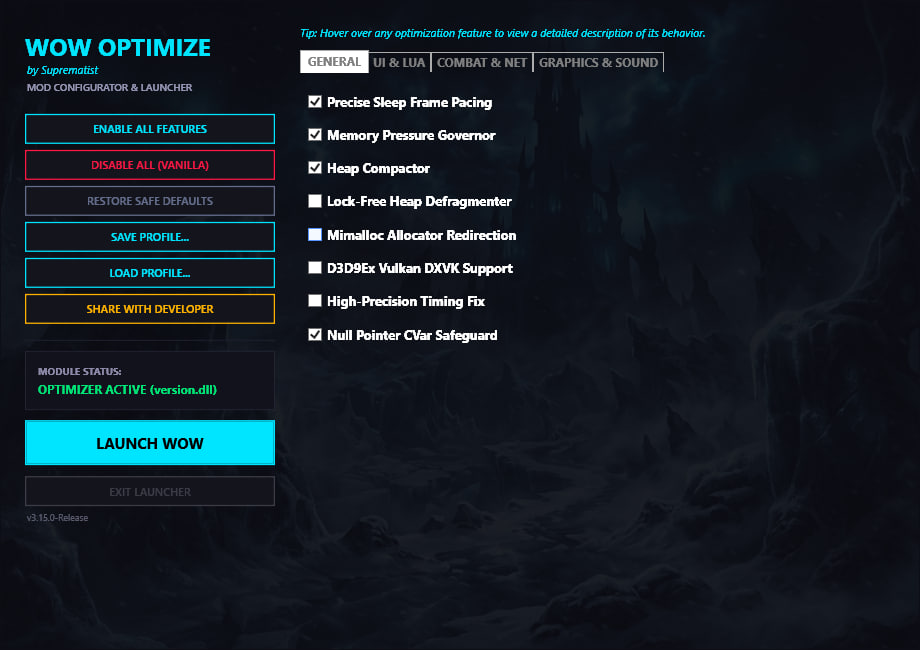
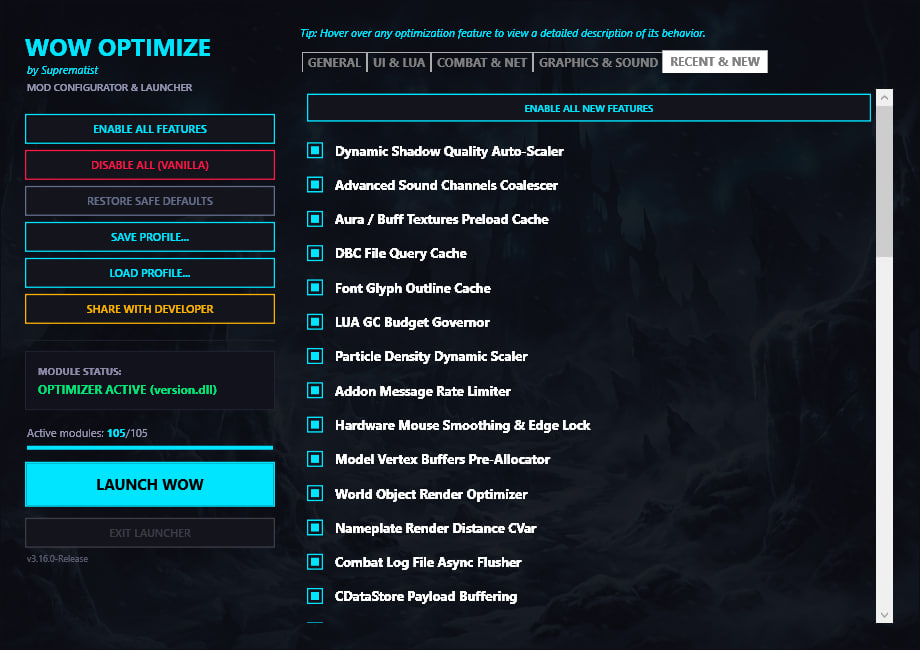
Update README.md for v3.16.0 release details and feature counts

diff --git a/README.md b/README.md
@@ -29,10 +29,15 @@ The current public build is focused on real frametime stability, long-session sm
 
 ## What's New in the Upcoming Update (v3.16.0)
 
-This release marks a significant milestone, bringing together substantial performance restorations, stability updates, runtime enhancements, and a unified desktop dashboard manager. Over 51 optimization features have been verified, stabilized, and dynamically gated at runtime, resulting in a smoother and stutter-free experience.
+This release marks a significant milestone, bringing together substantial performance restorations, stability updates, runtime enhancements, and a unified desktop dashboard manager. Over 106 optimization features have been verified, stabilized, and dynamically gated at runtime, resulting in a smoother and stutter-free experience.
 
 ### Modular Configurator Launcher (v3.16.0)
-- **`wow_optimize_launcher.exe` Configurator** — Allows players to dynamically toggle all 51 optimization features via a C# WPF UI (no DLL recompiles required).
+- **`wow_optimize_launcher.exe` Configurator** — Allows players to dynamically toggle all 106 optimization features via a C# WPF UI (no DLL recompiles required).
+- **Active Modules Counter & Progress Bar** — Displays a real-time active module ratio (`Active modules: X/106`) and a custom flat, square-cornered progress bar directly above the launch button that dynamically fills to reflect configuration coverage.
+- **Tab-Specific "ENABLE ALL" Actions** — Adds custom button bars at the top of each settings panel (GENERAL, UI & LUA, COMBAT & NET, etc.) to toggle all modules in that specific tab with a single click.
+- **Refined Safe Defaults** — Adjusts defaults so that new or experimental features default to off (`false`) when restoring safe configurations, letting testers easily isolate new additions.
+- **Fast Hover Tooltips** — Lowers hover pop-up delay to `250ms` (from standard OS delay) and extends display time to `30s` to make reading module behaviors smooth and effortless.
+- **Custom-Templated Flat UI** — Replaces default rounded OS checkbox textures with a unified, strictly flat square template featuring cyan indicator squares.
 - **Save & Load Profiles** — Supports exporting/importing customized configurations as `.ini` profiles.
 - **Preset Sharing** — Features a "Share with Developer" button to copy active settings to the clipboard for submitting safe profile recommendations.
 - **Update Checker** — Checks for new versions on startup and displays a link when an update is available on GitHub.